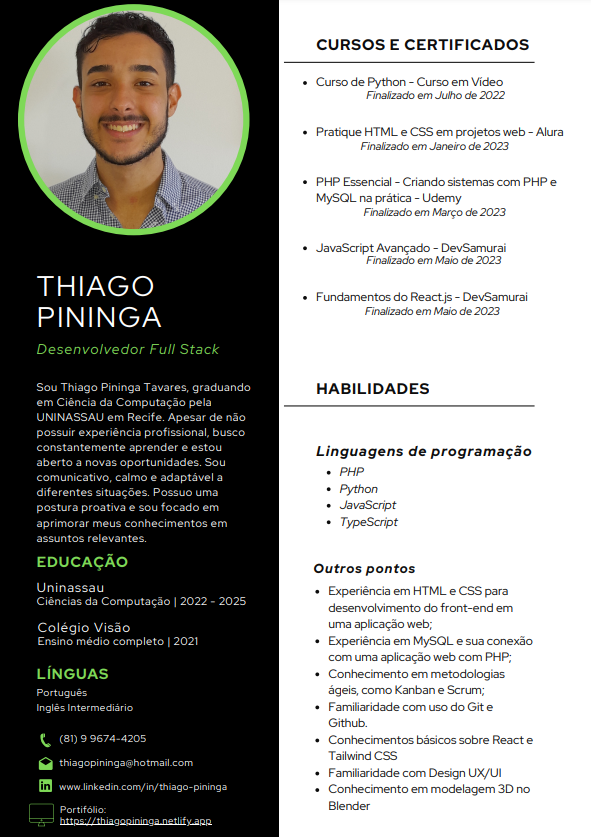
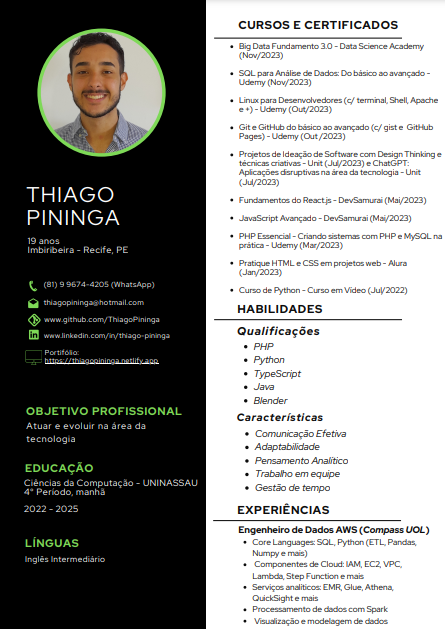
Atualização

Changed region(s): [[0.0292, 0.0, 0.9933, 1.0]]

diff --git a/src/components/AboutMe/index..tsx b/src/components/AboutMe/index..tsx
@@ -11,16 +11,14 @@ export function AboutMe() {
         <p>Olá, meu nome é Thiago Pininga e resido em Recife, Pernambuco, como um apaixonado desenvolvedor full stack. Ao estudar Ciência da Computação na Faculdade Uninassau, pretendo melhorar minhas habilidades e compreensão.
           <br />
           <br />
-
           Fui atraído pela tecnologia e pelo potencial transformador da programação desde muito jovem. Diariamente, o que me inspira e me motiva é encontrar maneiras criativas de resolver problemas digitais. O meu interesse em criar sites e aplicativos interativos e funcionais me levou na estudar linguagens como HTML, CSS, JavaScript e frameworks atuais.
 
 <br />
 <br />
-Uma parte essencial de meu percurso é a busca constante de novos desafios e oportunidades de aprendizado. Ainda não tenho experiência profissional, mas estou ansioso para lidar com problemas na vida real e mergulhar de cabeça no universo da tecnologia.
-
+"Durante minha jornada, estou constantemente em busca de novos desafios e oportunidades de aprendizado. Atualmente, sou estagiário na Compass UOL, onde atuo como engenheiro de dados AWS, onde tenho aprendido muito no pouco tempo que estou.
 <br />
 <br />
-Meu objetivo é usar o conhecimento que aprendi na faculdade para ajudar as pessoas e a sociedade a fazer coisas boas. Estou confiante de que alcançarei grandes sucessos nessa trajetória como desenvolvedor web se me esforçar e me dedicar. Estou ansioso para oferecer meu entusiasmo e habilidades para projetos inovadores e estou aberto a oportunidades e parcerias.</p>
+Meu objetivo é usar o conhecimento que aprendi com a programação para ajudar o máximo de pessoas que eu conseguir. Estou confiante de que alcançarei grandes sucessos nessa trajetória com a tecnologia se me esforçar e me dedicar. Estou ansioso para oferecer meu entusiasmo e habilidades para projetos inovadores e estou aberto a oportunidades e parcerias.</p>
       </div>
     </Container>
   )
